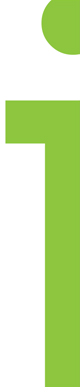
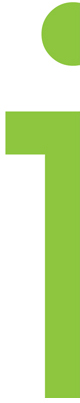
Background image

diff --git a/sites/all/themes/hedgecomm/css/global.css b/sites/all/themes/hedgecomm/css/global.css
@@ -5,7 +5,7 @@
  * General HTML elements 
  ****************************************************************/
 body {
-  background: url(../img/bg-body.jpg) no-repeat right top fixed;
+  background: url(../img/bg-body.jpg) no-repeat right 80px fixed;
   color: #222;
   font-family: Arial, sans-serif;
 }
